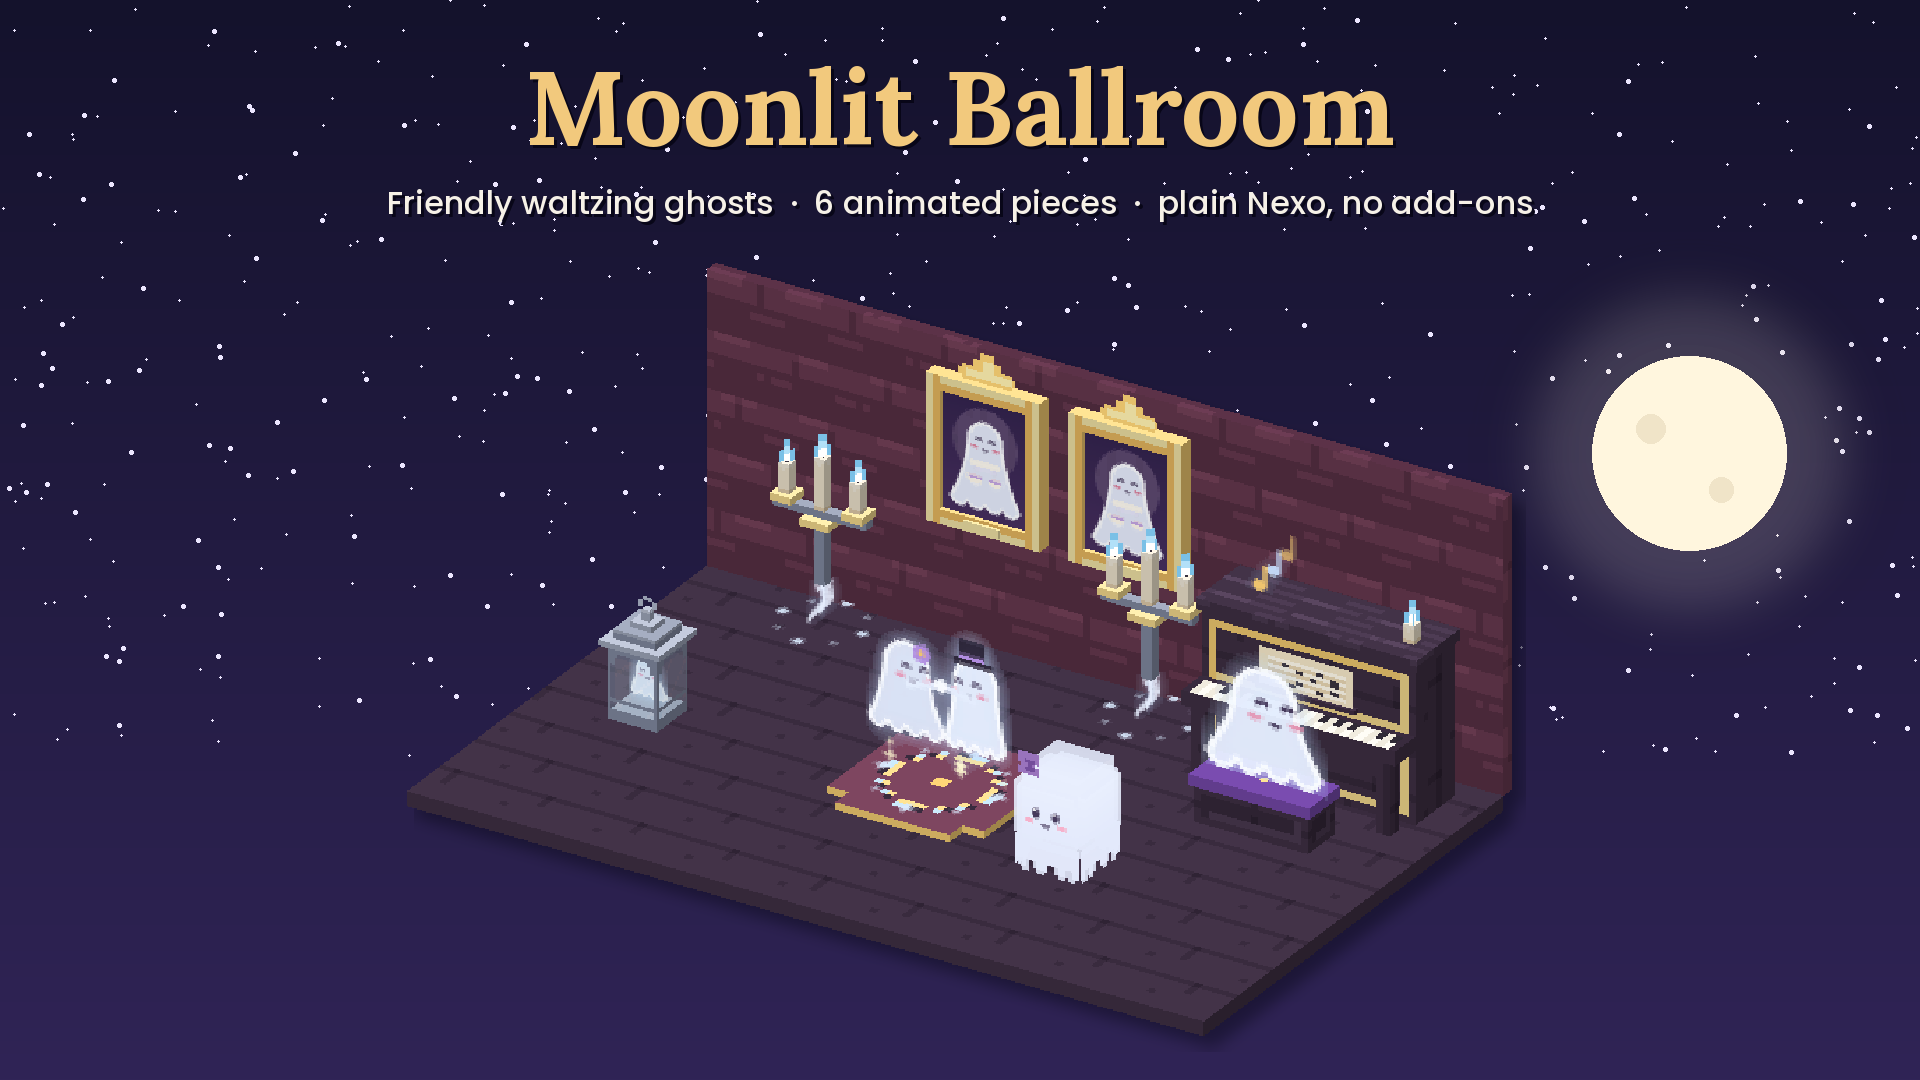
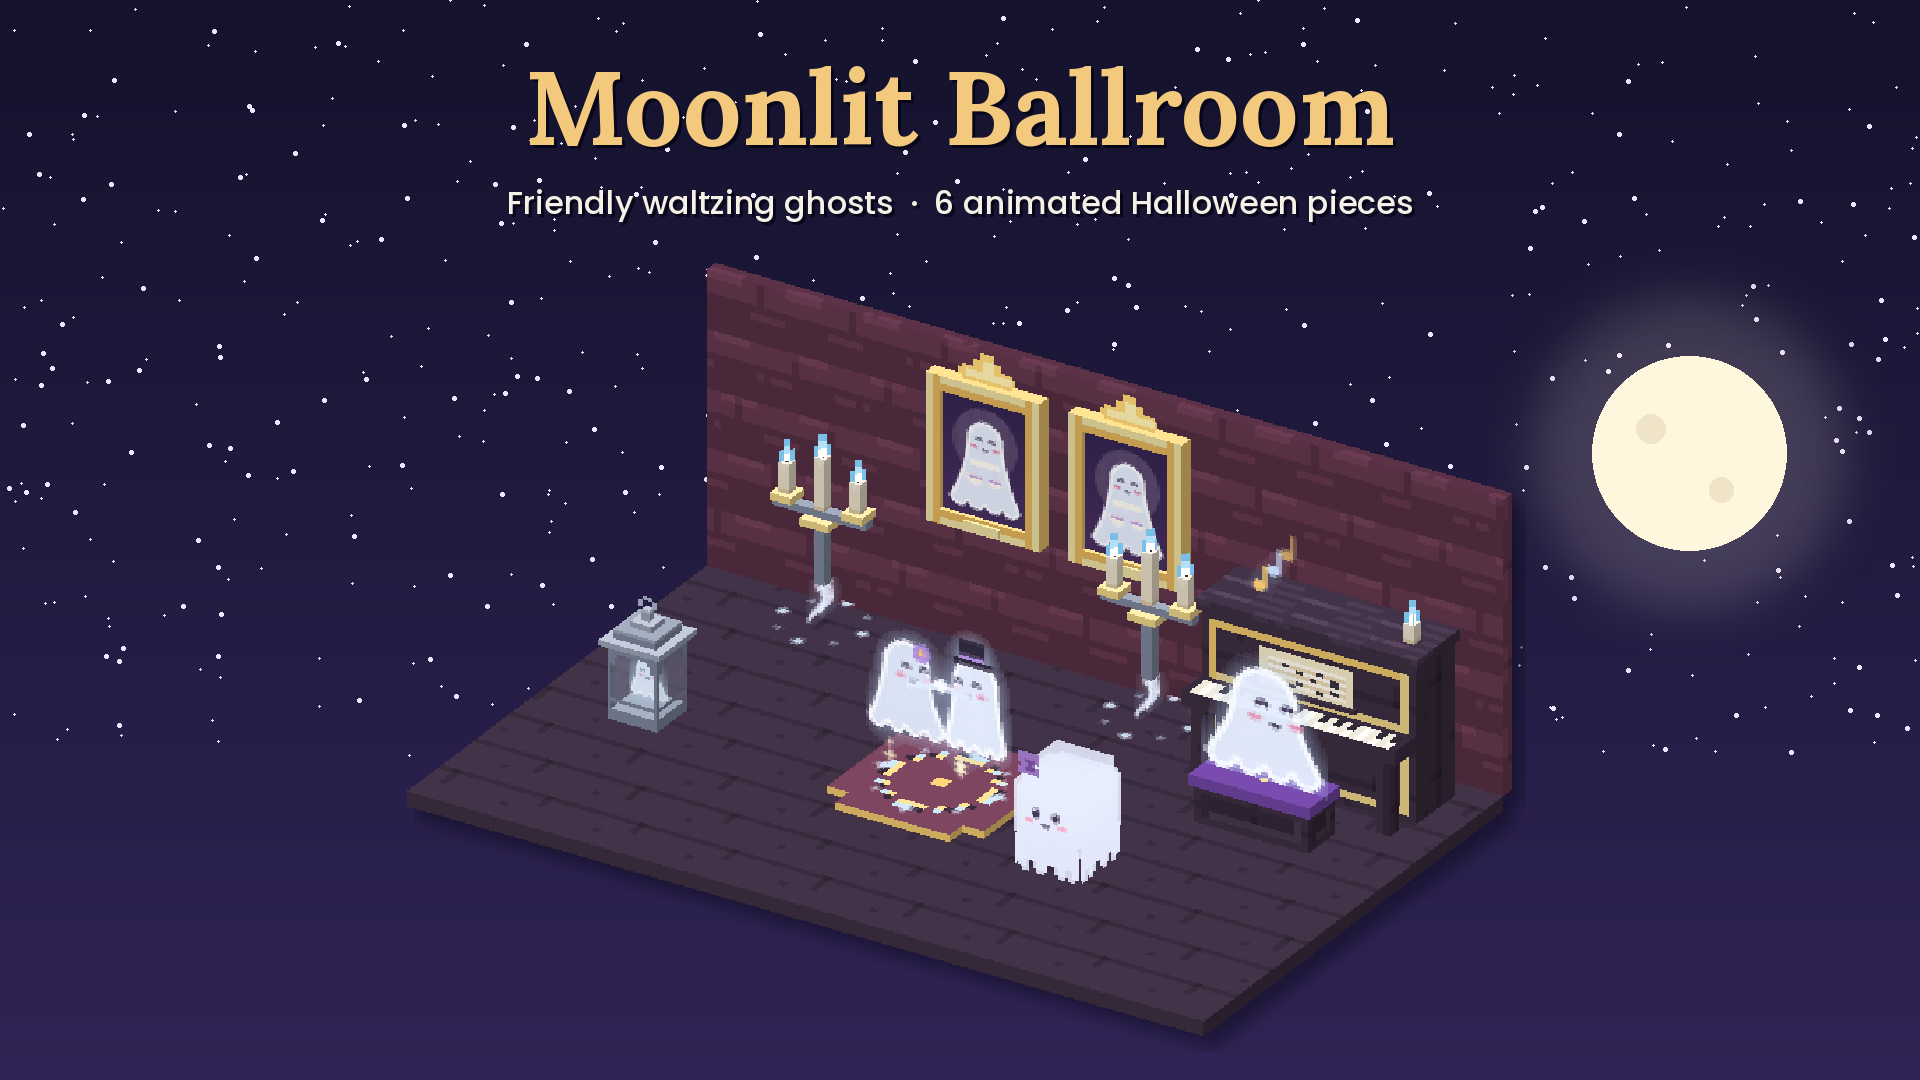
Moonlit Ballroom: stop advertising plain Nexo / no add-ons (listing, cover, config header)
Claude-Session: https://claude.ai/code/session_018gWbXeGUt4gKQ1Q7izU7hT

Changed region(s): [[0.1875, 0.1528, 0.8125, 0.2139]]

diff --git a/moonlit-ballroom/src/build.py b/moonlit-ballroom/src/build.py
@@ -70,7 +70,7 @@ def nexo_yaml():
             "Mechanics": {"furniture": f},
         }
     head = (f"# Moonlit Ballroom v{VERSION} by Mistbloom Studios - Nexo\n"
-            "# Minecraft 1.21.4+. Ghosts are animated textures: no extra plugins needed.\n\n")
+            "# Minecraft 1.21.4+.\n\n")
     txt = yaml.safe_dump(out, sort_keys=False, allow_unicode=True, width=200)
     return head + re.sub(rf"\n({NS}_)", r"\n\n\1", txt)
 
@@ -213,7 +213,7 @@ def cover(frame=0, W=1920, H=1080):
     shadowed(bg, im, ((W - im.width) // 2, H - im.height - 40))
     d = ImageDraw.Draw(bg)
     centered(d, "Moonlit Ballroom", font(104), 40, W, GOLD)
-    centered(d, "Friendly waltzing ghosts  ·  6 animated pieces  ·  plain Nexo, no add-ons", sans(32), 180, W, PARCH)
+    centered(d, "Friendly waltzing ghosts  ·  6 animated Halloween pieces", sans(32), 180, W, PARCH)
     return bg
 
 LABELS = {"waltzing_ghosts": "Waltzing Ghosts", "ghost_piano": "Ghost Pianist", "floating_candelabra_lit": "Floating Candelabra",

diff --git a/moonlit-ballroom/listing/LISTING.md b/moonlit-ballroom/listing/LISTING.md
@@ -1,7 +1,7 @@
 # Moonlit Ballroom | Waltzing Ghost Furniture for Nexo
 
 **Short tagline (one line under the title):**
-Friendly ghosts that waltz all night. 6 animated Halloween pieces for plain Nexo.
+Friendly ghosts that waltz all night. 6 animated Halloween pieces for Nexo.
 
 ---
 
@@ -10,8 +10,6 @@ Friendly ghosts that waltz all night. 6 animated Halloween pieces for plain Nexo
 The ballroom is closed, but the guests never left. 👻
 
 **Moonlit Ballroom** is a spooky-cute Halloween starter set from Mistbloom Studios. The ghosts here aren't scary. They waltz, play the piano and peek back at you, all lit by soft moonlight.
-
-Every piece is animated and works in **plain Nexo**. You don't need ModelEngine or any other add-on.
 
 ### What's inside (6 pieces)
 
@@ -24,7 +22,7 @@ Every piece is animated and works in **plain Nexo**. You don't need ModelEngine 
 
 ### Features
 
-- 6 animated pieces, with no add-ons needed
+- 6 animated pieces
 - 2 working light toggles (the candelabra and the lantern)
 - Right-click reactions
 - Clean, readable configs with one items file (`moonball.yml`) and its own namespace (`moonball`), so nothing clashes with your other packs
@@ -33,11 +31,11 @@ Every piece is animated and works in **plain Nexo**. You don't need ModelEngine 
 ### Requirements
 
 - Minecraft **1.21.4 or newer**
-- **Nexo** (no other plugins needed)
+- **Nexo**
 
 ### Good to know
 
-- The animations are hand-drawn animated textures, so each piece faces the direction you place it. Seen from the side they look flat, which is the trade-off for running on plain Nexo with no ModelEngine.
+- The animations are hand-drawn animated textures, so each piece faces the direction you place it. Seen from the side they look flat.
 - The ballroom build in the trailer and screenshots is a **showcase only**. You get the 6 furniture pieces, not the building.
 
 ### License
